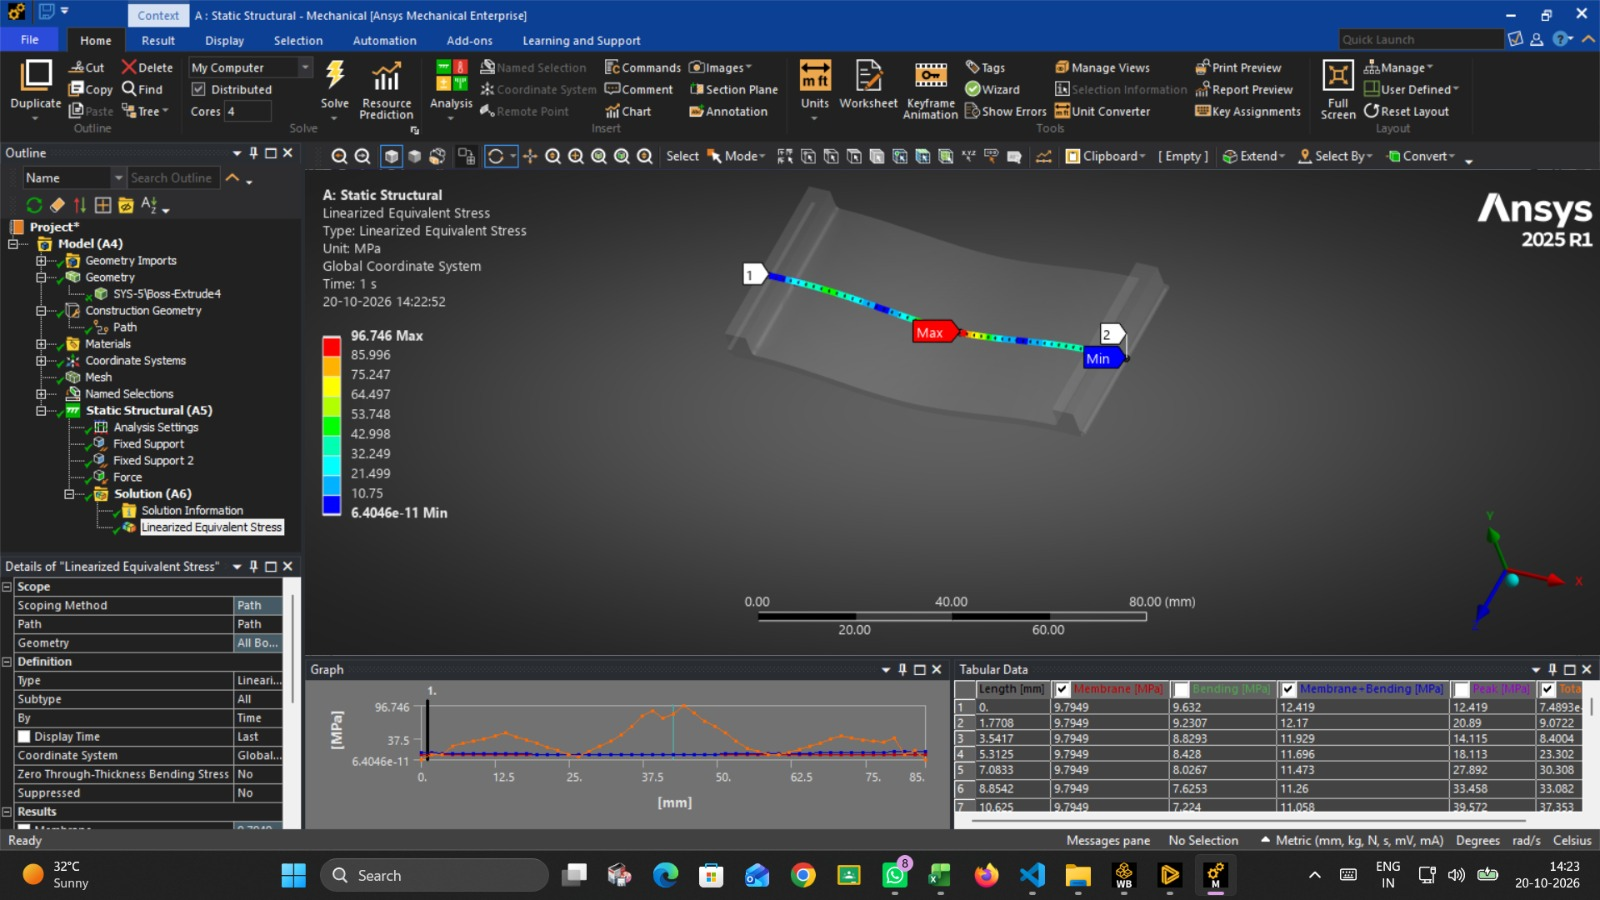
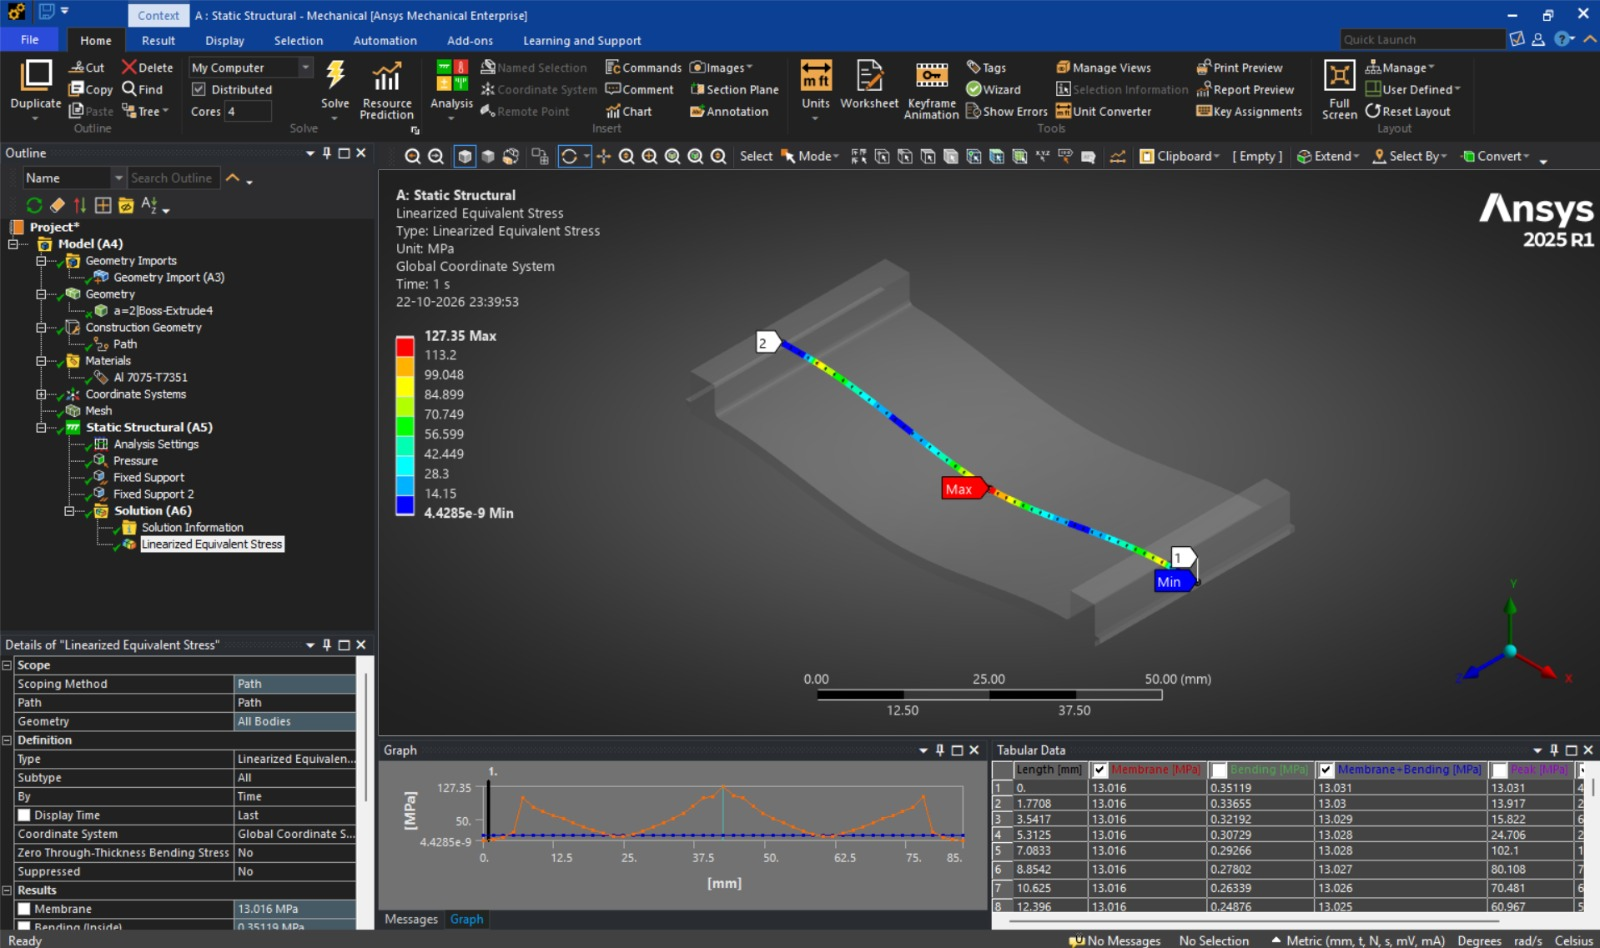
Update README, CLAUDE.md and Tier 1 output README for mesh convergence study; fix Failure analysis figure paths

diff --git a/latex/Failure analysis/main.tex b/latex/Failure analysis/main.tex
@@ -9,8 +9,8 @@
 \usepackage{placeins}
 \usepackage[hidelinks]{hyperref}
 
-% all figures live in the figures/ folder next to this file
-\graphicspath{{figures/}}
+% figures come from media/ and scripts and outputs/tier_1/output/
+\graphicspath{{../../media/}{../../scripts and outputs/tier_1/output/}}
 \setlength{\textfloatsep}{10pt plus 2pt minus 2pt}
 \setlength{\floatsep}{8pt plus 2pt minus 2pt}
 \setlength{\intextsep}{8pt plus 2pt minus 2pt}
@@ -85,7 +85,7 @@ Each of the five load cases was solved on three meshes, labelled by their nomina
 
 \begin{figure}[htbp]
   \centering
-  \includegraphics[width=0.85\textwidth]{ansys_run_a2.jpg}
+  \includegraphics[width=0.85\textwidth]{fea run ex1 tier1.jpeg}
   \caption{Ansys 2025 R1 run for $a = \SI{2}{mm}$ at \SI{300}{N}: the linearized equivalent stress path on the skin, with the stress plotted along the path and the tabular output.}
   \label{fig:ansys}
 \end{figure}
@@ -167,9 +167,9 @@ On the \SI{10}{mm} mesh the curves are ragged and not ordered physically. The ce
 
 \begin{figure}[htbp]
   \centering
-  \begin{subfigure}[b]{0.45\textwidth}\includegraphics[width=\linewidth]{fea_path_10mm.png}\caption{\SI{10}{mm} mesh}\end{subfigure}\hfill
-  \begin{subfigure}[b]{0.45\textwidth}\includegraphics[width=\linewidth]{fea_path_1mm.png}\caption{\SI{1}{mm} mesh}\end{subfigure}\\[4pt]
-  \begin{subfigure}[b]{0.45\textwidth}\includegraphics[width=\linewidth]{fea_path_0p1mm.png}\caption{\SI{0.1}{mm} mesh}\end{subfigure}
+  \begin{subfigure}[b]{0.45\textwidth}\includegraphics[width=\linewidth]{10mm_meshing/fea_path_stress_vs_x.png}\caption{\SI{10}{mm} mesh}\end{subfigure}\hfill
+  \begin{subfigure}[b]{0.45\textwidth}\includegraphics[width=\linewidth]{1mm_meshing/fea_path_stress_vs_x.png}\caption{\SI{1}{mm} mesh}\end{subfigure}\\[4pt]
+  \begin{subfigure}[b]{0.45\textwidth}\includegraphics[width=\linewidth]{0.1mm_meshing/fea_path_stress_vs_x.png}\caption{\SI{0.1}{mm} mesh}\end{subfigure}
   \caption{FEA Total $\sigma_\text{vm}$ along the path for $a = 2$--\SI{10}{mm}, scaled to \SI{400}{N}, on each mesh.}
   \label{fig:feapaths}
 \end{figure}
@@ -212,9 +212,9 @@ The apparent order of convergence, $p = \ln\!\big[(f_{1}-f_{10})/(f_{0.1}-f_{1})
 
 \begin{figure}[t]
   \centering
-  \begin{subfigure}[b]{0.32\textwidth}\includegraphics[width=\linewidth]{overlay_10mm_a2.png}\caption{\SI{10}{mm} mesh}\end{subfigure}\hfill
-  \begin{subfigure}[b]{0.32\textwidth}\includegraphics[width=\linewidth]{overlay_1mm_a2.png}\caption{\SI{1}{mm} mesh}\end{subfigure}\hfill
-  \begin{subfigure}[b]{0.32\textwidth}\includegraphics[width=\linewidth]{overlay_0p1mm_a2.png}\caption{\SI{0.1}{mm} mesh}\end{subfigure}
+  \begin{subfigure}[b]{0.32\textwidth}\includegraphics[width=\linewidth]{10mm_meshing/overlay_a2.png}\caption{\SI{10}{mm} mesh}\end{subfigure}\hfill
+  \begin{subfigure}[b]{0.32\textwidth}\includegraphics[width=\linewidth]{1mm_meshing/overlay_a2.png}\caption{\SI{1}{mm} mesh}\end{subfigure}\hfill
+  \begin{subfigure}[b]{0.32\textwidth}\includegraphics[width=\linewidth]{0.1mm_meshing/overlay_a2.png}\caption{\SI{0.1}{mm} mesh}\end{subfigure}
   \caption{FEA against analytical $\sigma_\text{vm}$ for $a = \SI{2}{mm}$ on each mesh: as the mesh is refined the FEA curve moves up to its converged shape.}
   \label{fig:overlaya2}
 \end{figure}
@@ -228,7 +228,7 @@ Figure~\ref{fig:peaks} overlays the FEA peaks from the three meshes on the analy
 
 \begin{figure}[htbp]
   \centering
-  \includegraphics[width=0.8\textwidth]{mesh_peaks_vs_a.png}
+  \includegraphics[width=0.8\textwidth]{fea_vs_analytical_comparison.png}
   \caption{FEA junction (left) and centre (right) peaks against patch radius on the three meshes, with the analytical values (dashed) and the \SI{106}{MPa} fatigue limit (dotted), at \SI{400}{N}.}
   \label{fig:peaks}
 \end{figure}
@@ -271,11 +271,11 @@ Figure~\ref{fig:peaks} overlays the FEA peaks from the three meshes on the analy
 
 \begin{figure}[htbp]
   \centering
-  \begin{subfigure}[b]{0.32\textwidth}\includegraphics[width=\linewidth]{overlay_0p1mm_a2.png}\caption{$a = 2$}\end{subfigure}\hfill
-  \begin{subfigure}[b]{0.32\textwidth}\includegraphics[width=\linewidth]{overlay_0p1mm_a4.png}\caption{$a = 4$}\end{subfigure}\hfill
-  \begin{subfigure}[b]{0.32\textwidth}\includegraphics[width=\linewidth]{overlay_0p1mm_a6.png}\caption{$a = 6$}\end{subfigure}\\[4pt]
-  \begin{subfigure}[b]{0.32\textwidth}\includegraphics[width=\linewidth]{overlay_0p1mm_a8.png}\caption{$a = 8$}\end{subfigure}\hspace{0.02\textwidth}
-  \begin{subfigure}[b]{0.32\textwidth}\includegraphics[width=\linewidth]{overlay_0p1mm_a10.png}\caption{$a = 10$}\end{subfigure}
+  \begin{subfigure}[b]{0.32\textwidth}\includegraphics[width=\linewidth]{0.1mm_meshing/overlay_a2.png}\caption{$a = 2$}\end{subfigure}\hfill
+  \begin{subfigure}[b]{0.32\textwidth}\includegraphics[width=\linewidth]{0.1mm_meshing/overlay_a4.png}\caption{$a = 4$}\end{subfigure}\hfill
+  \begin{subfigure}[b]{0.32\textwidth}\includegraphics[width=\linewidth]{0.1mm_meshing/overlay_a6.png}\caption{$a = 6$}\end{subfigure}\\[4pt]
+  \begin{subfigure}[b]{0.32\textwidth}\includegraphics[width=\linewidth]{0.1mm_meshing/overlay_a8.png}\caption{$a = 8$}\end{subfigure}\hspace{0.02\textwidth}
+  \begin{subfigure}[b]{0.32\textwidth}\includegraphics[width=\linewidth]{0.1mm_meshing/overlay_a10.png}\caption{$a = 10$}\end{subfigure}
   \caption{FEA (markers) and analytical (solid) $\sigma_\text{vm}$ along the path for each patch radius (mm) on the converged \SI{0.1}{mm} mesh, at \SI{400}{N}.}
   \label{fig:overlays}
 \end{figure}

diff --git a/README.md b/README.md
@@ -13,10 +13,10 @@ The thin aluminium skin of NASA's Curiosity rover wheels cracked and punctured o
 
 ## Key findings
 
-- **Curiosity's skin fails in fatigue under sharp rocks.** A rock contact of radius 2 mm at 400 N drives the 2 mm skin above the 106 MPa fatigue limit of Al 7075-T7351.
+- **Curiosity's skin fails in fatigue under sharp rocks.** At 400 N the 2 mm skin exceeds the 106 MPa fatigue limit of Al 7075-T7351 at the skin–grouser junction for every rock size, and directly under the rock for contacts up to 8 mm radius.
 - **The Perseverance changes cut the peak stress about 4.5 times.** The median sharp-rock peak at 300 N falls from 86 MPa (Feature 1, 2 mm skin, Curiosity-like) to 19 MPa (Feature 4, 7.5 mm skin, Perseverance-like). The ribbed grouser pattern alone more than halves it.
 - **The surrogate model is accurate on geometries it has never seen.** Its median peak-stress error is 3.1%, and its 95% confidence band contains the true value in 94% of cases.
-- **A simple beam model is good enough for the panel centre but not the grouser junction.** It matches the FEA centre peak within 12% for sharp contacts, but over-predicts the junction stress three to six times.
+- **A simple beam model is a useful first guide, not a design check.** On the converged mesh it under-predicts the panel-centre peak by 6–32% (worst for sharp rocks) and over-predicts the junction stress about 1.45 times.
 
 <p align="center">
   <img src="media/Surrogate%20GUI.png" width="85%" alt="Surrogate model GUI">
@@ -28,12 +28,17 @@ The thin aluminium skin of NASA's Curiosity rover wheels cracked and punctured o
 ### 1. Failure analysis: `scripts and outputs/tier_1`
 A flat skin segment between two grousers, loaded by a rock on a circular patch, is modelled two ways: as a fixed stepped beam with a Peterson stress-concentration factor, and as an Ansys solid model. The stress along a path on the skin surface is then compared between them.
 
+Each case was solved on 10, 1 and 0.1 mm meshes. The 10 mm mesh is coarser than the 2 mm skin and gives non-physical results. The 1 mm and 0.1 mm meshes give nearly the same peak stress (within 1% at the panel centre and 8% at the skin–grouser junction), so the 0.1 mm mesh is treated as converged and used for all conclusions.
+
 <p align="center">
   <img src="media/analysis_location.png" width="32%" alt="Analysed region of the wheel">
   <img src="media/analysis_segment.png" width="45%" alt="Idealised skin segment">
   <br>
-  <img src="scripts%20and%20outputs/tier_1/output/overlay_a2.png" width="55%" alt="FEA vs analytical stress, a = 2 mm">
-  <br><em>Top: the analysed region and the idealised segment. Bottom: FEA (markers) against the analytical model (line) for a 2 mm contact.</em>
+  <img src="scripts%20and%20outputs/tier_1/output/0.1mm_meshing/overlay_a8.png" width="55%" alt="FEA vs analytical stress, a = 8 mm">
+  <br><em>Top: the analysed region and the idealised segment. Bottom: FEA (markers) against the analytical model (line) for an 8 mm contact on the converged 0.1 mm mesh.</em>
+  <br><br>
+  <img src="scripts%20and%20outputs/tier_1/output/mesh_convergence.png" width="70%" alt="Mesh convergence of the FEA peaks">
+  <br><em>Mesh convergence of the junction (left) and panel-centre (right) peaks against element size, one curve per rock radius.</em>
 </p>
 
 ### 2. Surrogate model: `scripts and outputs/tier_3`
@@ -96,7 +101,7 @@ To rebuild the model from the raw FEA results, run these in order:
 | `tier3_gui.m` | interactive prediction, nearest-case comparison, field export | none |
 
 ### Reproduce the failure analysis
-From `scripts and outputs/tier_1`, run `path_stress_analytical.m`, then `fea_vs_analytical.m`. The figures and CSV tables go to `tier_1/output/`.
+From `scripts and outputs/tier_1`, run `path_stress_analytical.m`, then `fea_vs_analytical.m`. The outputs go to `tier_1/output/`: one `<h>_meshing/` subfolder per mesh (10mm, 1mm, 0.1mm), plus the cross-mesh plots `mesh_convergence.png` and `fea_vs_analytical_comparison.png` at the top level.
 
 ### Build the reports
 Compile `main.tex` from inside its own `latex/<report>/` folder. The figures are read from the repository by relative path, so keep the folder structure (on Overleaf too).
@@ -113,7 +118,7 @@ Compile `main.tex` from inside its own `latex/<report>/` folder. The figures are
 - **Excluded cases.** 18 Feature 5 cases (t = 7.5; r = 1 or 5; R = 6, 8 or 10) report the same patch area at every R, so they are excluded. See [`Simulation results/NOTE.md`](Simulation%20results/NOTE.md).
 - **Patch area.** The area is not πR². The load is applied to every outward face of the cut patch, so ribs at the centre (Features 4 and 5) change it. This is expected.
 - **Material and supports.** Al 7075-T7351 (E ≈ 72 GPa); the arc ends are fixed.
-- **Failure-analysis path files** (`Simulation results/Tier 1/a=<a>.xls`) use a different layout: a 13-line linearisation summary, a blank line, a header, then 49 points along the path. Comparisons use the `Total` column.
+- **Failure-analysis path files** (`Simulation results/Tier 1/<h>_meshing/a=<a>.xls` (h = 10mm, 1mm, 0.1mm)) use a different layout: a 13-line linearisation summary, a blank line, a header, then 49 points along the path. Comparisons use the `Total` column.
 
 ## Team
 

diff --git a/CLAUDE.md b/CLAUDE.md
@@ -7,10 +7,10 @@ Batch FEA of curved R250 panels (rover-wheel features) in Ansys Workbench 2025 R
 - `CAD_models/Feature 1..5/*.STEP`: 92 files. Each feature has 18 combinations of t ∈ {2, 7.5}, s ∈ {10, 12, 15} and r ∈ {1, 3, 5}, and Features 4 and 5 also have `t=7.5_s=6_r=3`. The name `Feature 4/t=7.5_s=12_r=5 .STEP` contains a stray space, so trim it when parsing.
 - `Simulation results/Feature N/<stem>/r<R>mm/`: one case per folder, R ∈ {2, 4, 6, 8, 10} (patch radius, not the CAD `r`).
 - `Simulation results/batch_log.txt` (85 OK), `batch_log_2.txt` (106 OK, 4 FAILED, plus SKIPPED lines) and `batch_log_3.txt` (225 OK: the remaining Feature 1–3 stems): one line per case, with `A=` (patch area, mm²) and `P=` (pressure, MPa).
-- `Simulation results/Tier 1/a=<a>.xls`: path data for the simplified flat-skin model, with CAD in `CAD_models/Tier 1/`. These files use a different format; see "Tier 1 data" below.
+- `Simulation results/Tier 1/<h>_meshing/a=<a>.xls` (h = 10mm, 1mm, 0.1mm): path data for the simplified flat-skin model, one folder per mesh size, with CAD in `CAD_models/Tier 1/`. These files use a different format; see "Tier 1 data" below.
 - `Simulation results/NOTE.md`: review of `batch_log_2`. Read it before trusting Feature 5 data.
 - `ansys_batch_export.py` + `Ansys simulation template/`: the Workbench journal that produced the data. It's only for reference, and its paths point at a teammate's Windows machine.
-- `scripts and outputs/tier_N/`: MATLAB analysis scripts for the report tiers. Each writes to `scripts and outputs/tier_N/output/`, which has a README listing what each file is. Tier 1 is the analytical path-stress model of the simplified flat-skin model.
+- `scripts and outputs/tier_N/`: MATLAB analysis scripts for the report tiers. Each writes to `scripts and outputs/tier_N/output/` (Tier 1 uses one `<h>_meshing/` subfolder per mesh), which has a README listing what each file is. Tier 1 is the analytical path-stress model of the simplified flat-skin model.
 - `latex/Failure analysis/` (Tier 1 report) and `latex/Surrogate Model/` (Tier 3 report): `main.tex` + `report.pdf` each. Figures are read by relative path (`../../`) from `scripts and outputs/tier_N/output/` and `media/`.
 - `media/`: images used in the report (wheel location, segment CAD, Ansys run screenshot).
 
@@ -56,3 +56,4 @@ Batch FEA of curved R250 panels (rover-wheel features) in Ansys Workbench 2025 R
 - 19 Oct 2026: the first full run finished with 85/85 OK.
 - 20 Oct 2026: a continuation run on the updated Feature 4/5 CAD. The Ansys phase is closed, and MATLAB post-processing starts next.
 - 20 Oct 2026: the Tier 1 analytical vs FEA study and report are done (`latex/`). `batch_log_3` ran the remaining 225 Feature 1–3 cases with 225/225 OK, so every feature now has all its stems; this data is for surrogate modelling later.
+- 23 Oct 2026: Tier 1 mesh convergence study added (10 / 1 / 0.1 mm). The 0.1 mm mesh is converged and used for the conclusions; the Failure analysis report is updated.

diff --git a/scripts and outputs/tier_1/output/README.md b/scripts and outputs/tier_1/output/README.md
@@ -7,11 +7,13 @@ Run `../path_stress_analytical.m` first, then `../fea_vs_analytical.m`. The FEA 
 
 | File | Description | Script | Data |
 |---|---|---|---|
-| `path_stress_vs_x.png` | Analytical von Mises stress along the path for each patch radius a. Triangles mark the K_t-amplified junction peaks. | `path_stress_analytical.m` | Analytical model |
-| `peak_stress_vs_a.png` | Analytical junction (K_t·σ_nom) and panel-centre stress against patch radius a. | `path_stress_analytical.m` | Analytical model |
+| `analytical_path_stress_vs_x.png` | Analytical von Mises stress along the path for each patch radius a. Triangles mark the K_t-amplified junction peaks. | `path_stress_analytical.m` | Analytical model |
+| `analytical_peak_stress_vs_a.png` | Analytical junction (K_t·σ_nom) and panel-centre stress against patch radius a. | `path_stress_analytical.m` | Analytical model |
 | `summary.csv` | One row per a: junction moment, σ_nom, K_t, junction and centre stress, and their ratio. | `path_stress_analytical.m` | Analytical model |
 | `analytical.mat` | Analytical curves and parameters passed to the comparison script. | `path_stress_analytical.m` | Analytical model |
-| `fea_path_stress_vs_x.png` | FEA linearized Total stress along the path for each a. | `fea_vs_analytical.m` | `Simulation results/Tier 1/a=*.xls` |
-| `fea_peak_stress_vs_a.png` | FEA junction and centre peaks against a (markers), with the analytical values dashed. | `fea_vs_analytical.m` | FEA + `analytical.mat` |
-| `overlay_a<a>.png` | FEA and analytical stress along the path for one radius. The title gives C_junction and C_centre. | `fea_vs_analytical.m` | FEA + `analytical.mat` |
-| `fea_vs_analytical.csv` | One row per a: FEA and analytical peaks and the calibration factors C = σ_FEA / σ_analytical. | `fea_vs_analytical.m` | FEA + `analytical.mat` |
+| `<h>_meshing/fea_path_stress_vs_x.png` | FEA linearized Total stress along the path for each a, for mesh size h (10mm, 1mm, 0.1mm). | `fea_vs_analytical.m` | `Simulation results/Tier 1/<h>_meshing/a=*.xls` |
+| `<h>_meshing/fea_peak_stress_vs_a.png` | FEA junction and centre peaks against a (markers), with the analytical values dashed. | `fea_vs_analytical.m` | FEA + `analytical.mat` |
+| `<h>_meshing/overlay_a<a>.png` | FEA and analytical stress along the path for one radius. The title gives C_junction and C_centre. | `fea_vs_analytical.m` | FEA + `analytical.mat` |
+| `<h>_meshing/fea_vs_analytical.csv` | One row per a: FEA and analytical peaks and the calibration factors C = σ_FEA / σ_analytical. | `fea_vs_analytical.m` | FEA + `analytical.mat` |
+| `mesh_convergence.png` | Junction and centre FEA peaks against element size, one curve per a. | `fea_vs_analytical.m` | All three meshes |
+| `fea_vs_analytical_comparison.png` | FEA peaks from all three meshes overlaid on the analytical values. | `fea_vs_analytical.m` | All three meshes + `analytical.mat` |
